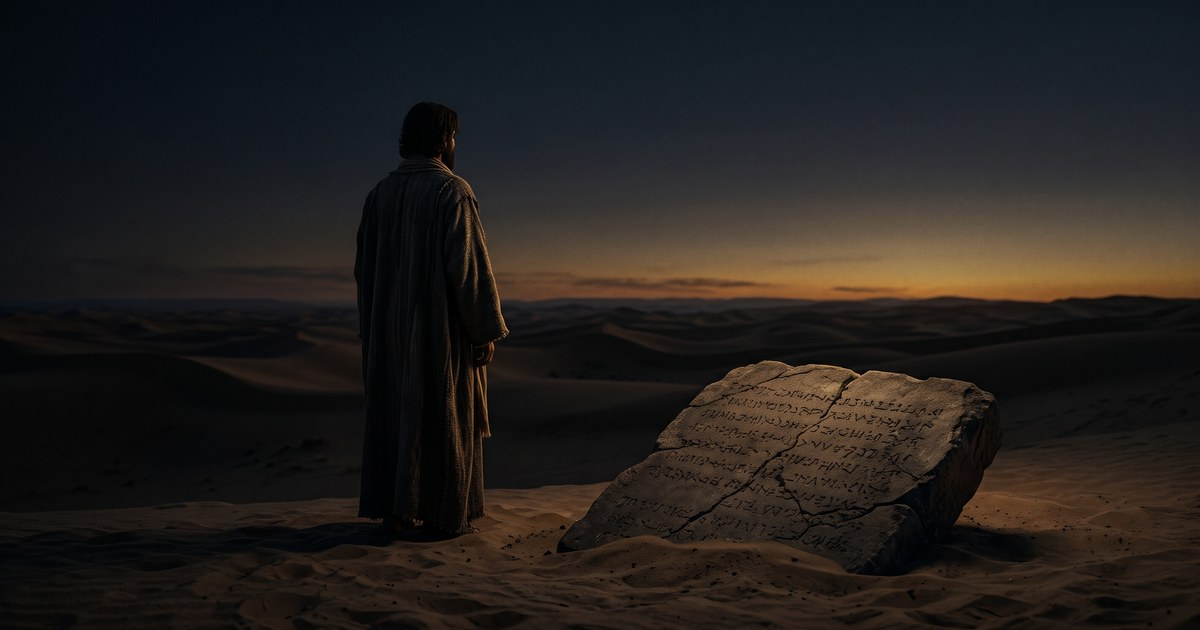
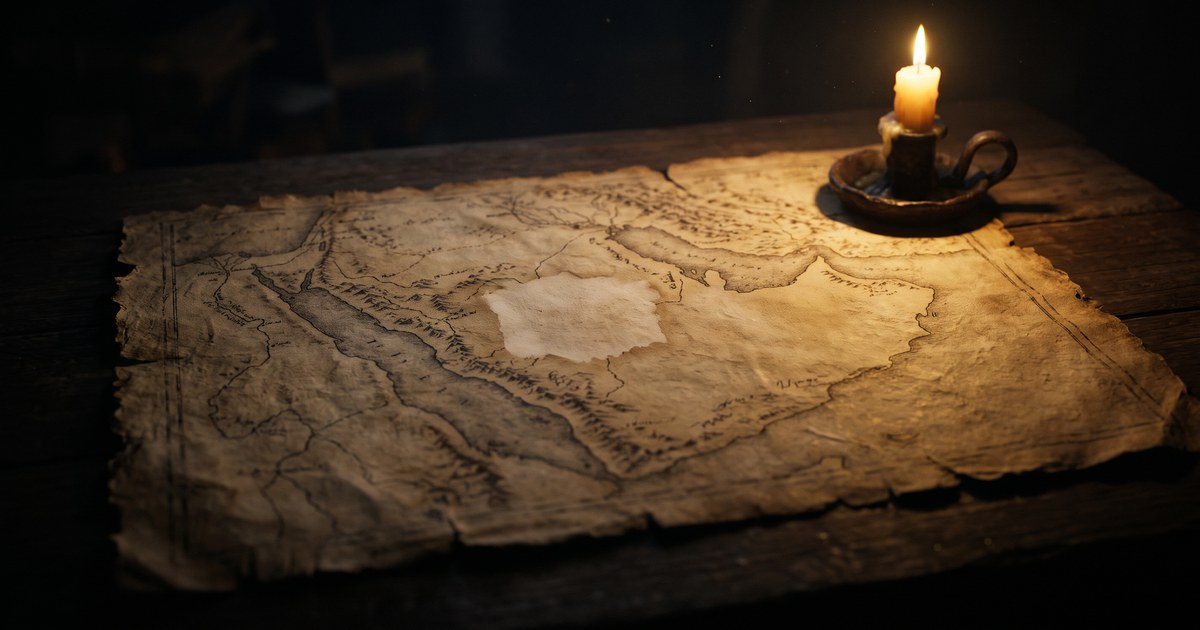
Use the map as the cover for "Were All the Previous Prophets Muslims?"
The candle-lit map with a blank patch matches this post's Mecca argument.
Removed the inline tablet image, which belongs to a different blog.

diff --git a/gleamshield/chronicles/were-all-previous-prophets-muslims.html b/gleamshield/chronicles/were-all-previous-prophets-muslims.html
@@ -19,7 +19,7 @@
   <meta property="og:image:type" content="image/jpeg" />
   <meta property="og:image:width" content="1200" />
   <meta property="og:image:height" content="630" />
-  <meta property="og:image:alt" content="A man in a desert robe faces an empty desert at dusk beside a cracked stone tablet" />
+  <meta property="og:image:alt" content="A candle-lit ancient map of Arabia with a blank patch where a city should be" />
   <meta property="og:site_name" content="GleamShield Production" />
   <meta name="twitter:card" content="summary_large_image" />
   <meta name="twitter:title" content="Were All the Previous Prophets Muslims?" />
@@ -199,7 +199,7 @@
   <div class="gs-article-layout gs-container">
     <article class="gs-article-content">
       <figure class="gs-article-figure">
-        <img src="/images/gleamshield/gs-chron-were-all-previous-prophets-muslims.jpg" alt="A man in a rough desert robe stands with his back to us at dusk, facing a vast empty desert beside a cracked stone tablet carved with ancient script" class="gs-article-img" loading="eager" width="1200" height="630" />
+        <img src="/images/gleamshield/gs-chron-were-all-previous-prophets-muslims.jpg" alt="An aged parchment map of the Arabian Peninsula lit by a single candle, with a blank patch where a city should be marked" class="gs-article-img" loading="eager" width="1200" height="630" />
       </figure>
 
       <div class="gs-blockquote" style="background:rgba(212,165,116,0.08);border-left:3px solid var(--gs-accent);padding:1.25rem 1.5rem;margin:0 0 2rem;border-radius:0 4px 4px 0;">
@@ -341,10 +341,6 @@
       <p>Classical Muslim exegetes such as al-Tabari, Ibn Kathir, and al-Qurtubi recognized this issue. To harmonize the text, they asserted that Bakkah was simply another name for Makkah-some said it referred to the specific area of the Ka'bah, while Makkah referred to the surrounding valley. However, this explanation was based on internal interpretation, not external evidence. None of these scholars could cite historical documents, ancient maps, or linguistic parallels that predate Islam to substantiate the identification. Their reasoning rested solely on the phonetic similarity between the two words.</p>
 
       <h2 id="mecca-silence">The Silence of Ancient Geography</h2>
-
-      <figure class="gs-article-figure">
-        <img src="/images/gleamshield/gs-chron-were-all-previous-prophets-muslims-map.jpg" alt="An aged parchment map of the Arabian Peninsula lit by a single candle, with a blank patch where a city should be marked" class="gs-article-img" loading="lazy" width="1200" height="634" />
-      </figure>
 
       <p>The geographical settings of these two texts belong to entirely different worlds. The “Valley of Baka” in the Psalms is rooted in the landscape of Canaan-the southern region of ancient Israel, within a realistic distance for pilgrims traveling to Jerusalem. Its scenery evokes limestone hills, shallow valleys, and pilgrimage routes that naturally converge toward Zion. This is the world of Judah and Benjamin, not the world of long desert caravans.</p>
 
